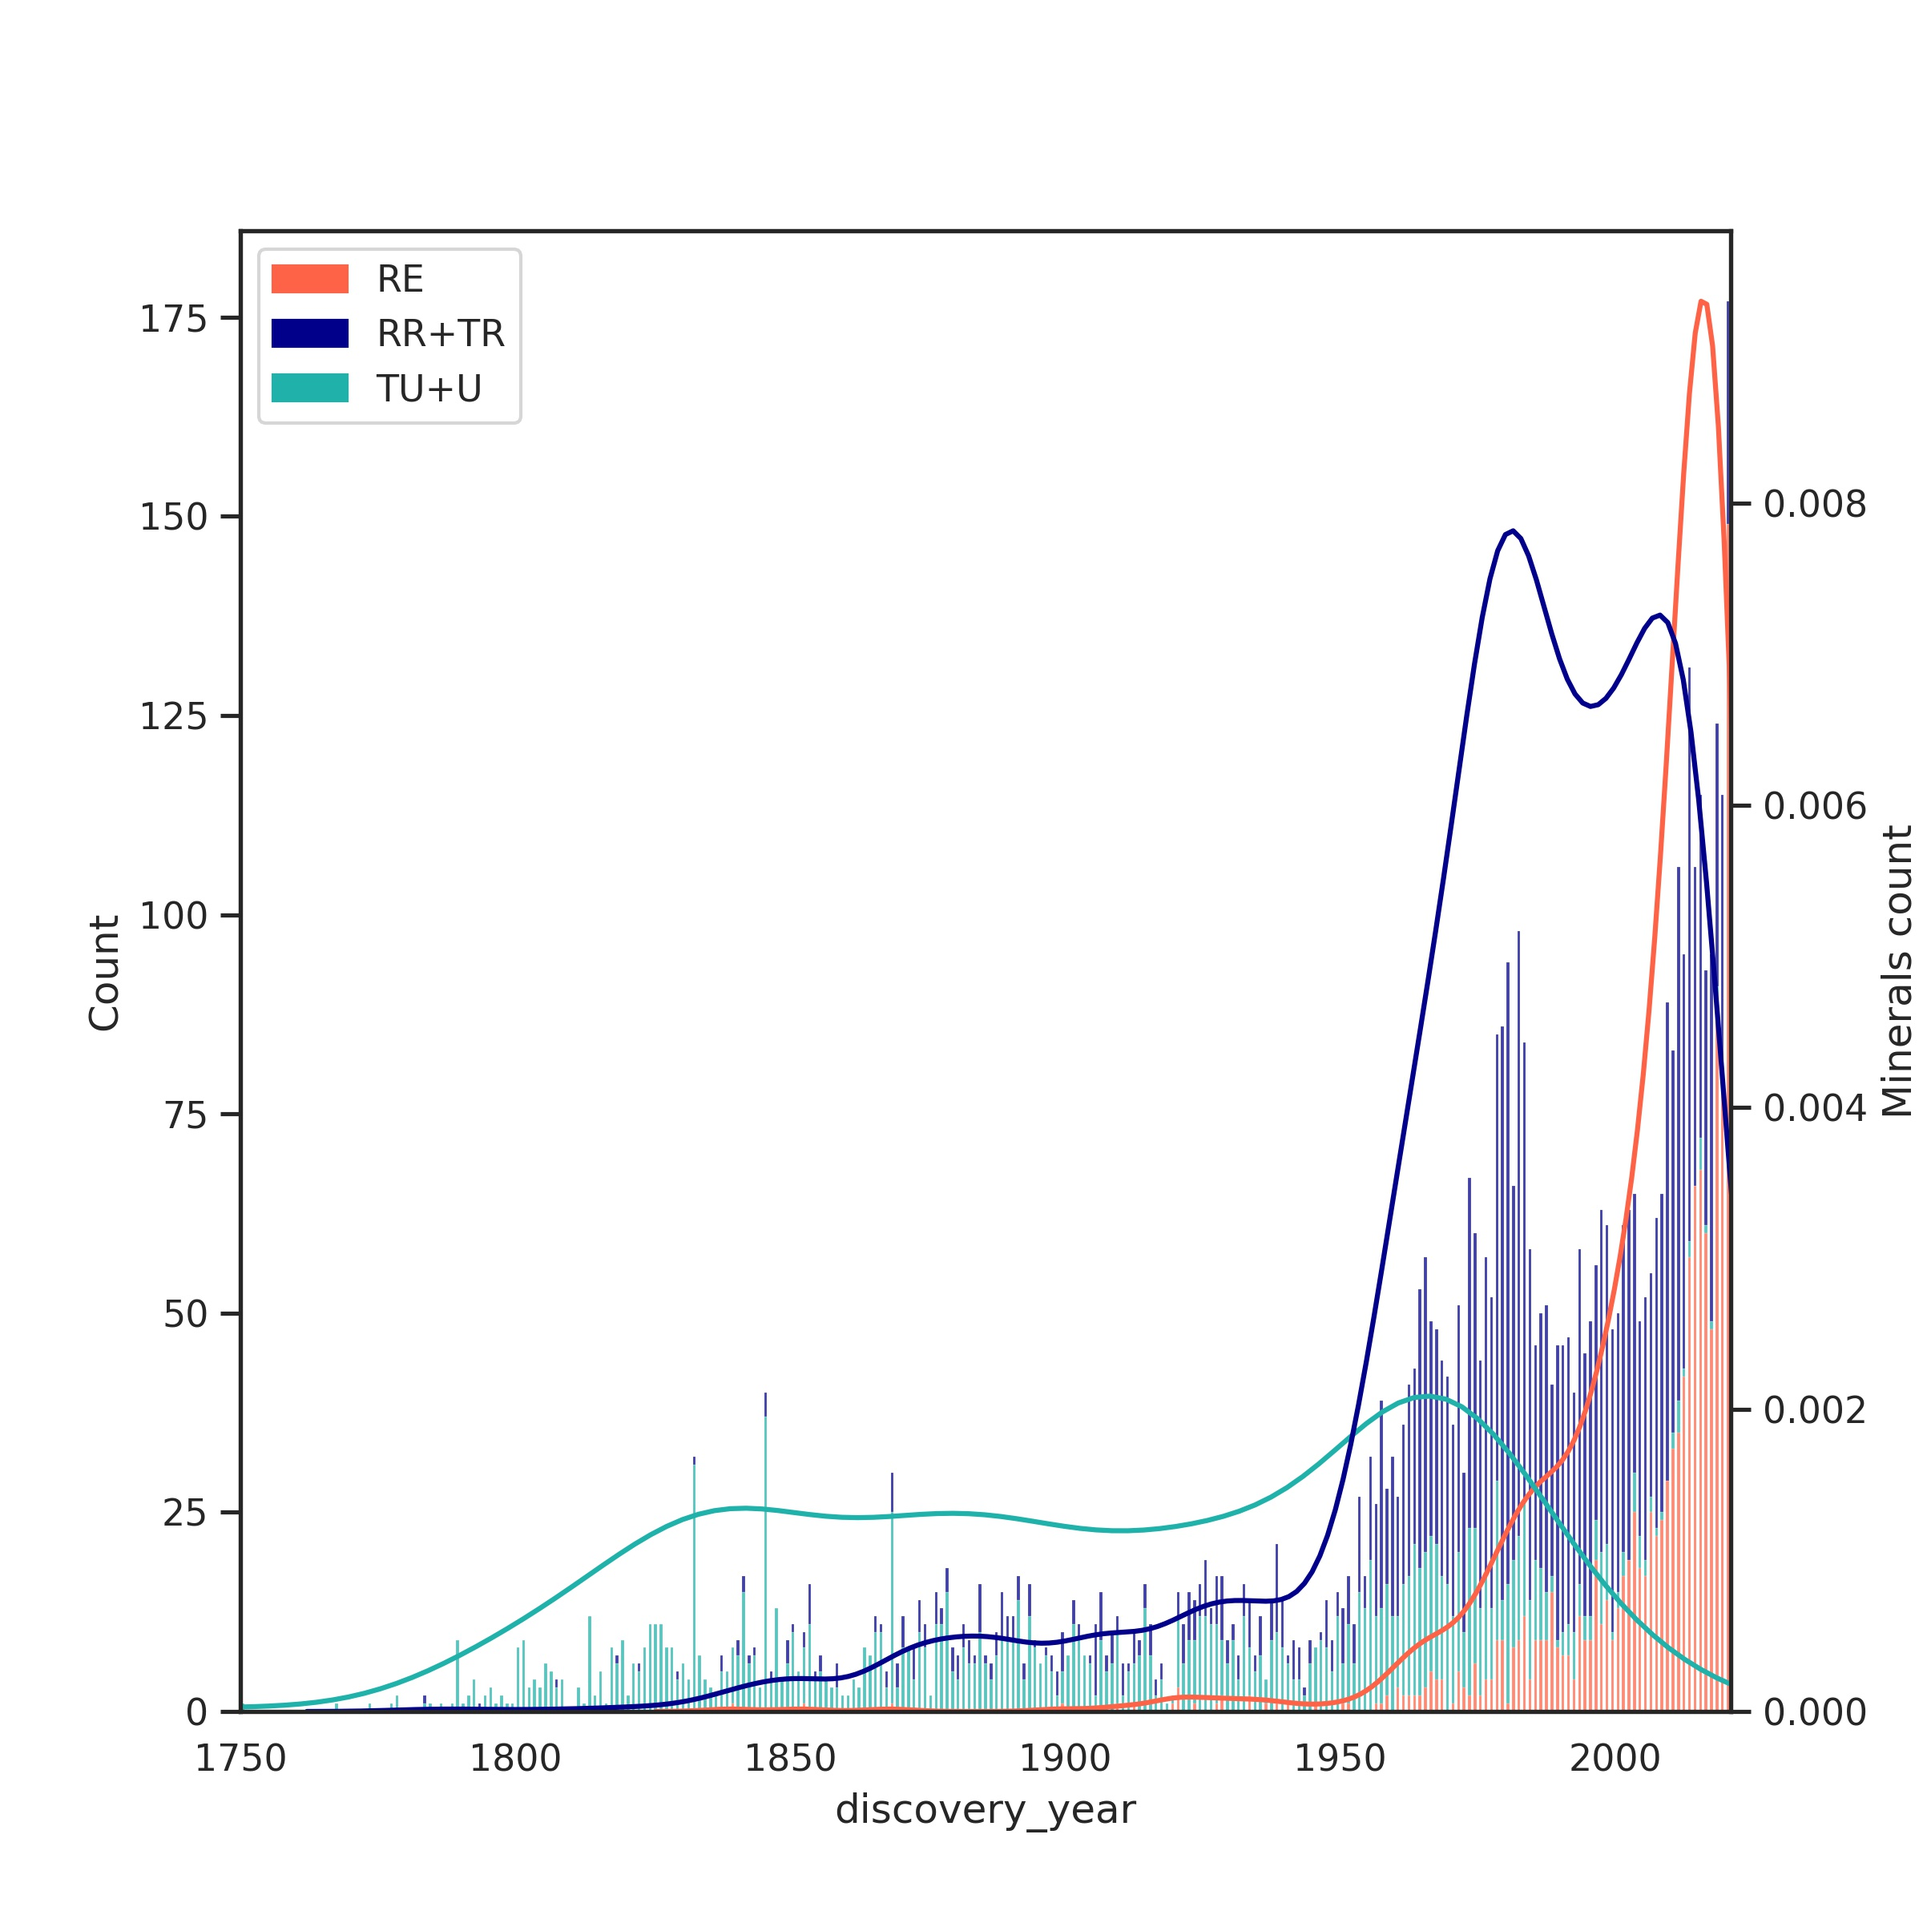
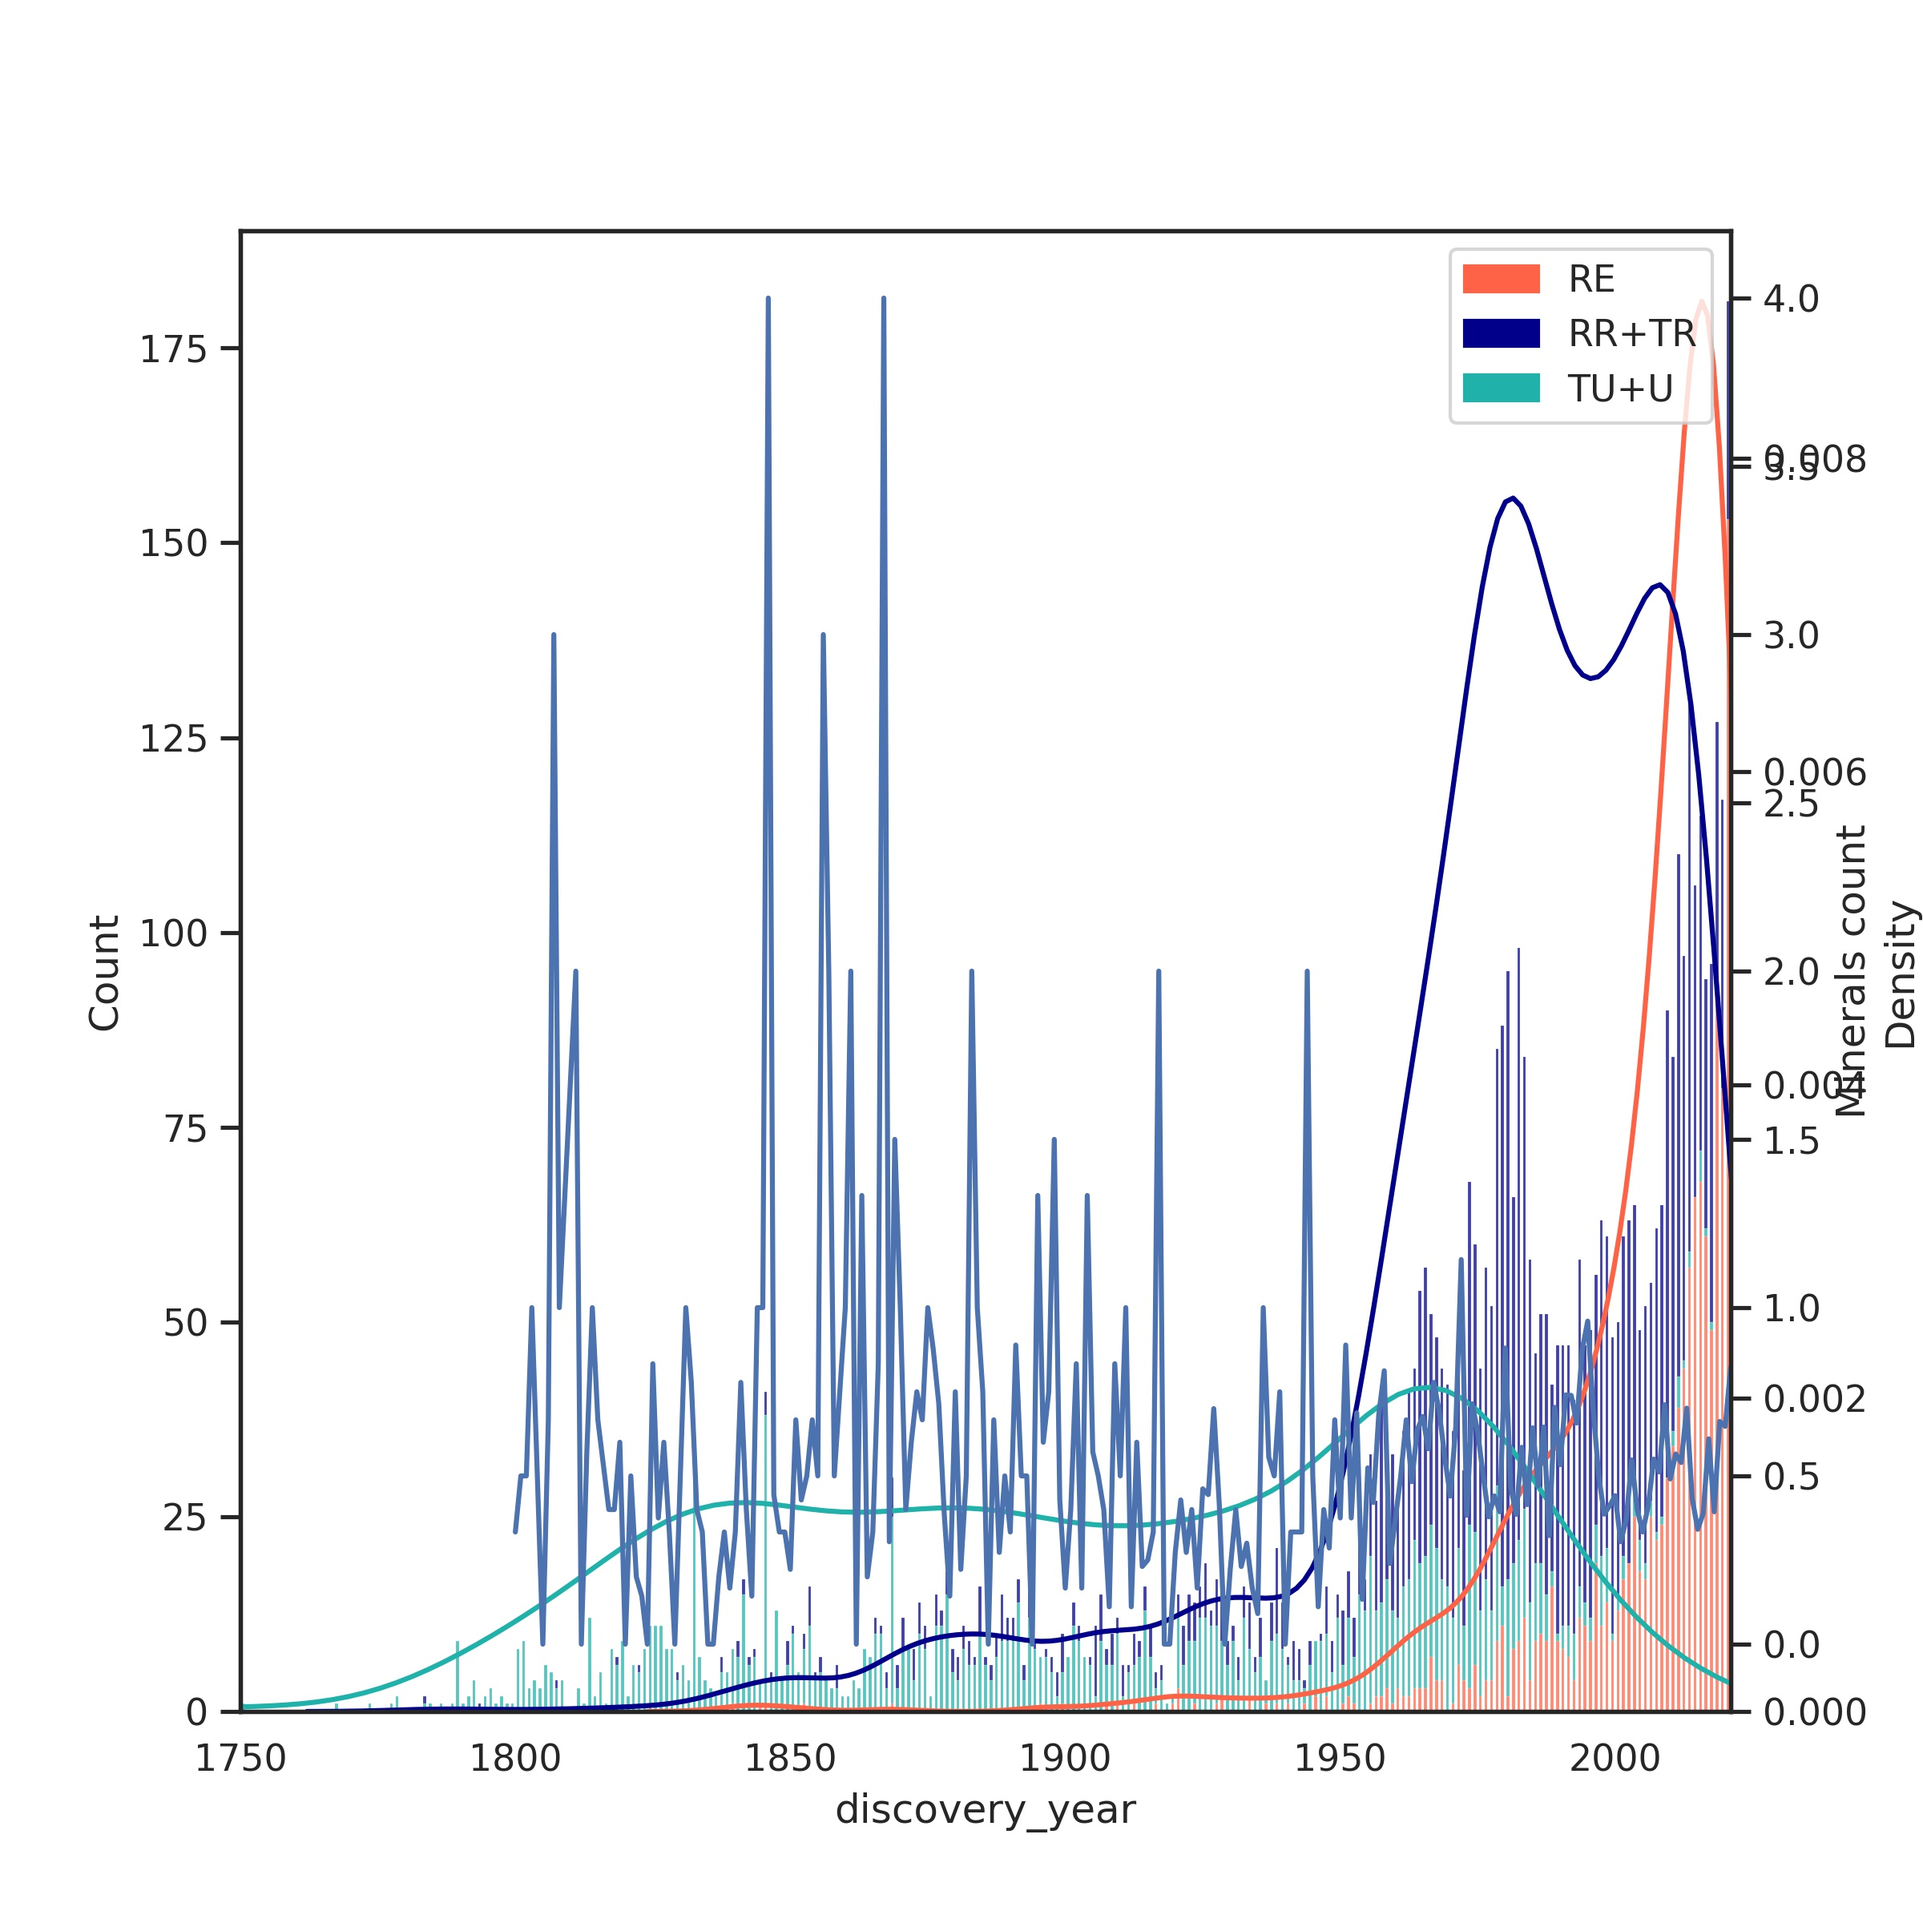
refactor discovery rate analysis

diff --git a/main/compare_localities_vs_year.py b/main/compare_localities_vs_year.py
@@ -10,69 +10,41 @@ import seaborn as sns
 
 from modules.gsheet_api import GsheetApi
 from functions.helpers import get_discovery_rate_all, get_discovery_rate_endemic, get_endemic_proportion, parse_rruff, \
-    parse_mindat
+    parse_mindat, prepare_data, get_symmetry_indexes
 
 # -*- coding: utf-8 -*-
 """
 @author: Liubomyr Gavryliv
-Code for assessing the evolution of mineral endemicity with time and
-make some assumptions
+Code for assessing the evolution of mineral endemicity with time and the discovery rate and make some assumptions
 """
 
 GsheetApi = GsheetApi()
 GsheetApi.run_main()
 
-locs_mr = GsheetApi.locs.copy()
-discovery_year = GsheetApi.names.copy()
-status = GsheetApi.status_data.copy()
+ns = GsheetApi.nickel_strunz.copy()
+crystal = GsheetApi.crystal.copy()
+
+mr_data = prepare_data(ns, crystal)
 
 locs_md = pd.read_csv('data/mindat_locs.csv', sep=',')
 rruff_data = pd.read_csv('data/RRUFF_Export.csv', sep=',')
-
 rruff_data = parse_rruff(rruff_data)
 locs_md = parse_mindat(locs_md)
 
-
-# Clean and transform MR data
-locs_mr.set_index('mineral_name', inplace=True)
-status.set_index('Mineral_Name', inplace=True)
-discovery_year.set_index('Mineral_Name', inplace=True)
-discovery_year['discovery_year_min'] = pd.to_numeric(discovery_year['discovery_year_min'])
-
-locs_mr = locs_mr.join(discovery_year, how='inner')[['locality_counts', 'discovery_year_min']]
-
-locs_mr.join(status)
-
-locs_mr['locality_counts'] = pd.to_numeric(locs_mr['locality_counts'])
-
-discovery_year.rename(columns={ 'discovery_year_min': 'discovery_year' }, inplace=True)
-locs_mr.rename(columns={ 'discovery_year_min': 'discovery_year' }, inplace=True)
-
-## Get all minerals counts grouped by the discovery year (all from MR)
-
-discovery_rate_all = get_discovery_rate_all(discovery_year)
-discovery_rate_endemic = get_discovery_rate_endemic(locs_mr)
-endemic_proportion = get_endemic_proportion(discovery_rate_endemic, discovery_rate_all)
-
 # Use mindat localities and RRUFF discovery year
-
 mindat_rruff = locs_md.join(rruff_data, how='outer')
-
 mindat_rruff = mindat_rruff[['discovery_year', 'locality_counts']]
-
-# get proportions of rare and endemic minerals
-endemic = mindat_rruff.loc[(mindat_rruff['locality_counts'] == 1)]
-endemic.sort_values(by='discovery_year', inplace=True)
-
-mindat_rruff.loc[(mindat_rruff['locality_counts'] >= 2) & (mindat_rruff['locality_counts'] <= 4)]
-
+mindat_rruff = mindat_rruff.join(mr_data['Crystal System'], how='left')
 mindat_rruff.loc[mindat_rruff['locality_counts'].isna(), 'locality_counts'] = 1.0
+
+symmetry_rate = get_symmetry_indexes(mindat_rruff)
+
+# get basic stats
 len(mindat_rruff.loc[(mindat_rruff['locality_counts'] > 18)]) / len(mindat_rruff) * 100
 len(mindat_rruff.loc[(mindat_rruff['locality_counts'] <= 18) & (mindat_rruff['locality_counts'] >= 5)]) / len(mindat_rruff) * 100
 len(mindat_rruff.loc[(mindat_rruff['locality_counts'] <= 4) ]) / len(mindat_rruff) * 100
 
 ## Get discovery rates (localities from mindat, discovery year from RRUFF)
-
 discovery_rate_all = get_discovery_rate_all(mindat_rruff)
 discovery_rate_endemic = get_discovery_rate_endemic(mindat_rruff)
 endemic_proportion = get_endemic_proportion(discovery_rate_endemic, discovery_rate_all)
@@ -80,13 +52,16 @@ endemic_proportion = get_endemic_proportion(discovery_rate_endemic, discovery_ra
 discovery_rate_all['count_cumulative'] = discovery_rate_all.cumsum()
 discovery_rate_all = discovery_rate_all.loc[discovery_rate_all.index >= 1800]
 
+discovery_rate = discovery_rate_all.join(endemic_proportion, how='outer')
+discovery_rate = discovery_rate.join(symmetry_rate[['triclinic_index', 'symmetry_index']], how='left')
+
 
 ### split discovery rate into Rarity groups
 mindat_rruff.loc[(mindat_rruff['locality_counts'] > 1) & (mindat_rruff['locality_counts'] <= 16), 'rarity'] = 'RR + TR'
 mindat_rruff.loc[mindat_rruff['locality_counts'] > 16, 'rarity'] = 'TU + U'
 mindat_rruff.loc[mindat_rruff['locality_counts'] == 1, 'rarity'] = 'RE'
 
-discovery_rate_classes = mindat_rruff.groupby(['discovery_year','rarity']).count().unstack()
+discovery_rate_classes = mindat_rruff.groupby(['discovery_year','rarity'])[['rarity']].count().unstack()
 discovery_rate_classes.columns = ['RE', 'RR+TR', 'TU+U']
 
 # stacked bar chart of discovery rate vs rarity groups
@@ -108,13 +83,12 @@ bottom_bar = mpatches.Patch(color='lightseagreen', label='TU+U')
 plt.legend(handles=[top_bar0, top_bar, bottom_bar])
 
 plt.xticks(x_ticks, np.array(x_labels, dtype=int), rotation=45)
-
 plt.xlabel('Discovery Year')
 plt.ylabel('Minerals count')
 
 plt.savefig(f"figures/discovery_rate/stacked_all_rarity_groups.jpeg", dpi=300, format='jpeg')
-
 plt.close()
+
 
 # same but show sum of minerals
 sns.set_context("paper")
@@ -141,9 +115,13 @@ temp = sns.histplot(
 ax1.set(xlim=(1750, 2021))
 
 ax2 = ax1.twinx()
+ax3 = ax1.twinx()
 
 sns.kdeplot(data=mindat_rruff, x="discovery_year", hue="rarity", palette=['darkblue', 'lightseagreen', 'tomato'], ax=ax2,
             legend=False)
+
+temp_ = discovery_rate.reset_index()
+sns.lineplot(data=temp_, x="discovery_year", y='symmetry_index', ax=ax3, legend=False)
 
 plt.xlabel('Discovery Year')
 plt.ylabel('Minerals count')
@@ -154,72 +132,77 @@ bottom_bar = mpatches.Patch(color='lightseagreen', label='TU+U')
 plt.legend(handles=[top_bar0, top_bar, bottom_bar])
 
 plt.savefig(f"figures/discovery_rate/stacked_all_rarity_groups.jpeg", dpi=300, format='jpeg')
+plt.close()
 
+
+# symmetry index with endemicity index
+sns.set(style="darkgrid")
+
+plt.figure(figsize=(8, 8), dpi=300)
+
+sns.lineplot(data=discovery_rate, x=discovery_rate.index, y=discovery_rate.symmetry_index, palette="tab10", linewidth=1)
+sns.lineplot(data=discovery_rate, x=discovery_rate.index, y=discovery_rate.proportion, palette="tab10", linewidth=1)
+
+plt.savefig(f"figures/discovery_rate/symmetry_index.jpeg", dpi=300, format='jpeg')
 plt.close()
 
 
 # bar chart of discovery rate of all minerals between 1800 and 2021
+y_pos = np.arange(len(discovery_rate.index))
+x_ticks = np.arange(len(discovery_rate.index), step=15)
+x_labels = discovery_rate.index[x_ticks]
 
-y_pos = np.arange(len(discovery_rate_all.index))
-x_ticks = np.arange(len(discovery_rate_all.index), step=15)
-x_labels = discovery_rate_all.index[x_ticks]
-
-plt.bar(y_pos, discovery_rate_all['count'])
+plt.bar(y_pos, discovery_rate['count'])
 
 plt.xticks(x_ticks, np.array(x_labels, dtype=int), rotation=45)
-
 plt.xlabel('Discovery Year')
 plt.ylabel('Minerals count')
 plt.title('Discovery rate of minerals')
 
 plt.savefig(f"figures/discovery_rate/all.jpeg", dpi=300, format='jpeg')
-
 plt.close()
 
 
 # cumulative curve of discovery rate for all minerals
-
-plt.plot(discovery_rate_all.index, discovery_rate_all[['count_cumulative']], color='red', linestyle='dotted', linewidth=1)
+plt.plot(discovery_rate.index, discovery_rate[['count_cumulative']], color='red', linestyle='dotted', linewidth=1)
 
 plt.xlabel('Discovery Year')
 plt.ylabel('Minerals count')
 plt.title('Discovery rate of minerals')
 
-plt.savefig(f"figures/all_minerals/discovery_rate_cumulative.jpeg", dpi=300, format='jpeg')
+plt.savefig(f"figures/discovery_rate/all_cumulative.jpeg", dpi=300, format='jpeg')
 
 plt.close()
 
 
 # scatter plot of endemic mineral counts / discovery year
 
-plt.scatter(discovery_rate_endemic.index, discovery_rate_endemic['count'], color='#5FD6D1', marker='o', s=20,
+plt.scatter(discovery_rate.index, discovery_rate['count_endemic'], color='#5FD6D1', marker='o', s=20,
             edgecolors='black', linewidths=0.1)
 
 plt.xlabel('Discovery Year')
 plt.ylabel('Endemic minerals count')
 plt.title('Discovery rate of endemic minerals')
 
-plt.savefig(f"figures/endemic_minerals/discovery_rate_scatter.jpeg", dpi=300, format='jpeg')
+plt.savefig(f"figures/discovery_rate/endemic_scatter.jpeg", dpi=300, format='jpeg')
 
 plt.close()
 
 
 # bar chart of discovery rate of endemic minerals only
 
-y_pos = np.arange(len(discovery_rate_endemic.index))
-x_ticks = np.arange(len(discovery_rate_endemic.index), step=15)
-x_labels = discovery_rate_endemic.index[x_ticks]
+y_pos = np.arange(len(discovery_rate.index))
+x_ticks = np.arange(len(discovery_rate.index), step=15)
+x_labels = discovery_rate.index[x_ticks]
 
-plt.bar(y_pos, discovery_rate_endemic['count'])
+plt.bar(y_pos, discovery_rate['count_endemic'])
 
 plt.xticks(x_ticks, np.array(x_labels, dtype=int), rotation=45)
-
 plt.xlabel('Discovery Year')
 plt.ylabel('Minerals count')
 plt.title('Discovery rate of minerals')
 
-plt.savefig(f"figures/endemic_minerals/discovery_rate_bar.jpeg", dpi=300, format='jpeg')
-
+plt.savefig(f"figures/discovery_rate/endemic_bar.jpeg", dpi=300, format='jpeg')
 plt.close()
 
 

diff --git a/functions/helpers.py b/functions/helpers.py
@@ -144,7 +144,7 @@ def get_endemic_proportion(discovery_rate_endemic, discovery_rate_all):
 
     endemic_all_prop = discovery_rate_endemic.join(discovery_rate_all, how='inner', lsuffix='_endemic', rsuffix='_all')
 
-    endemic_all_prop['proportion'] = endemic_all_prop['count_endemic'] / endemic_all_prop['count_all'] * 100
+    endemic_all_prop['proportion'] = endemic_all_prop['count_endemic'] / endemic_all_prop['count_all']
 
     return endemic_all_prop
 
@@ -277,7 +277,9 @@ def prepare_data(ns, crystal):
     return mr_data
 
 
-def get_symmetry_indexes(data):
+def get_symmetry_indexes(initial_data):
+
+    data = initial_data.copy()
 
     data.loc[:, 'triclinic'] = 0
     data.loc[:, 'isometric'] = 0

diff --git a/main/compare_crystal.py b/main/compare_crystal.py
@@ -20,7 +20,7 @@ GsheetApi.run_main()
 ns = GsheetApi.nickel_strunz.copy()
 crystal = GsheetApi.crystal.copy()
 
-mr_data = prepare_crystal_data(ns, crystal)
+mr_data = prepare_data(ns, crystal)
 
 # create Crystal System helper object
 crystal_system = get_crystal_system_obj()
